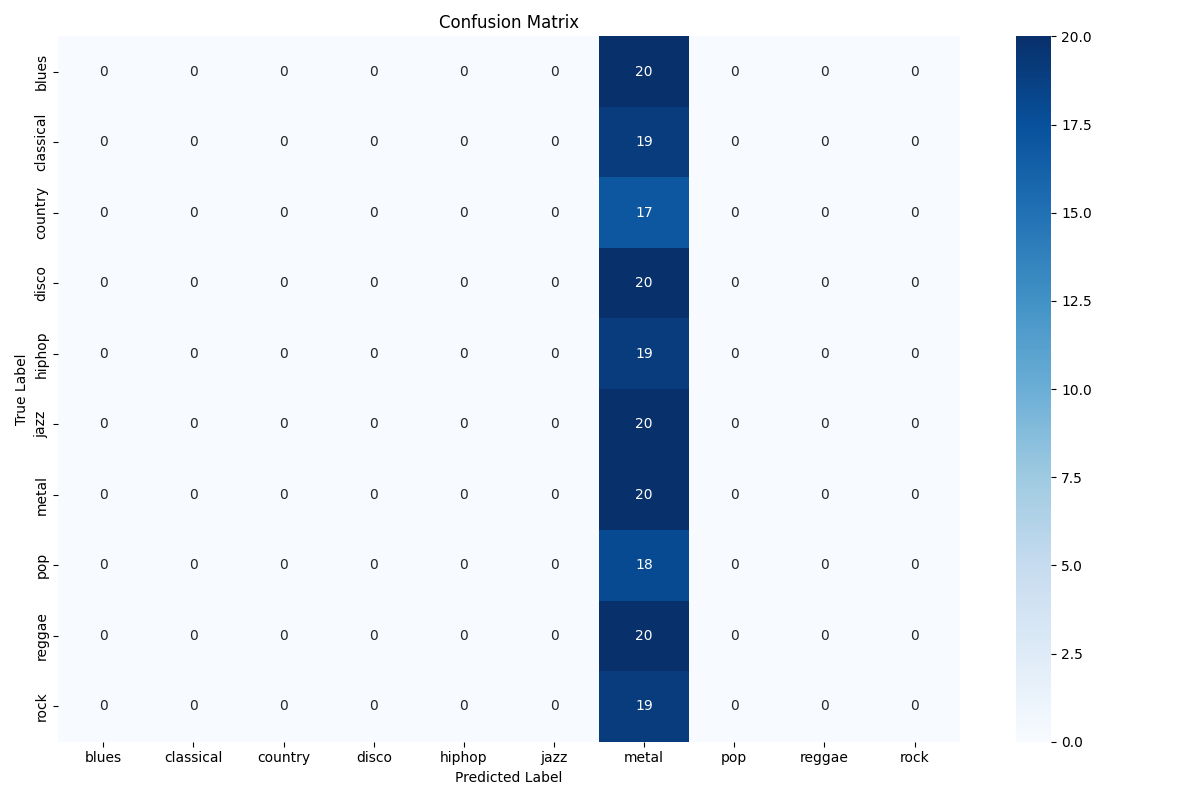
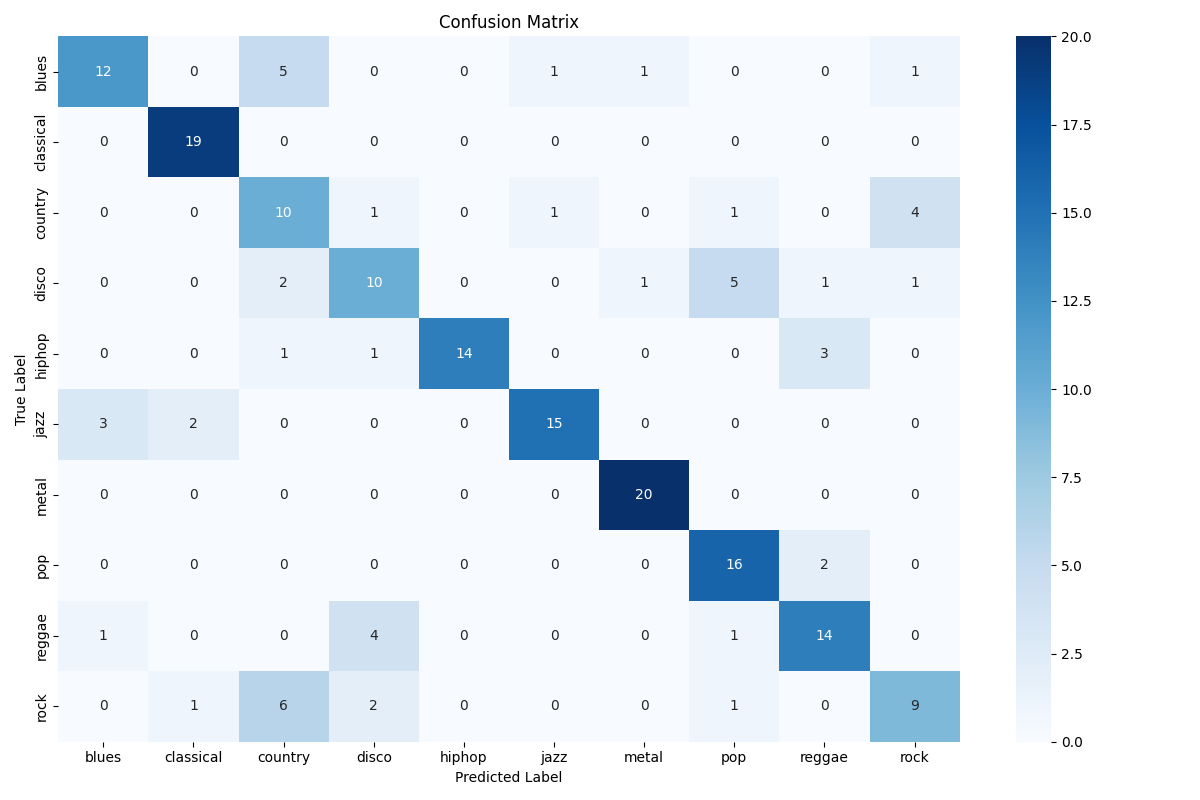
Update training parameters and visualizations: increased training epochs from 50 to 100 in train.py, and updated confusion matrix and training history images to reflect recent training results.

diff --git a/train.py b/train.py
@@ -91,7 +91,7 @@ def main():
     # Parameters
     SPECTROGRAMS_DIR = '/Users/julienh/Desktop/SDS/SDS-CP018-music-classifier/Data/mel_spectrograms_images'
     BATCH_SIZE = 16  # Might need to reduce batch size due to larger data
-    EPOCHS = 50
+    EPOCHS = 100
     IMG_HEIGHT = 128
     IMG_WIDTH = 128
     CHANNELS = 1
